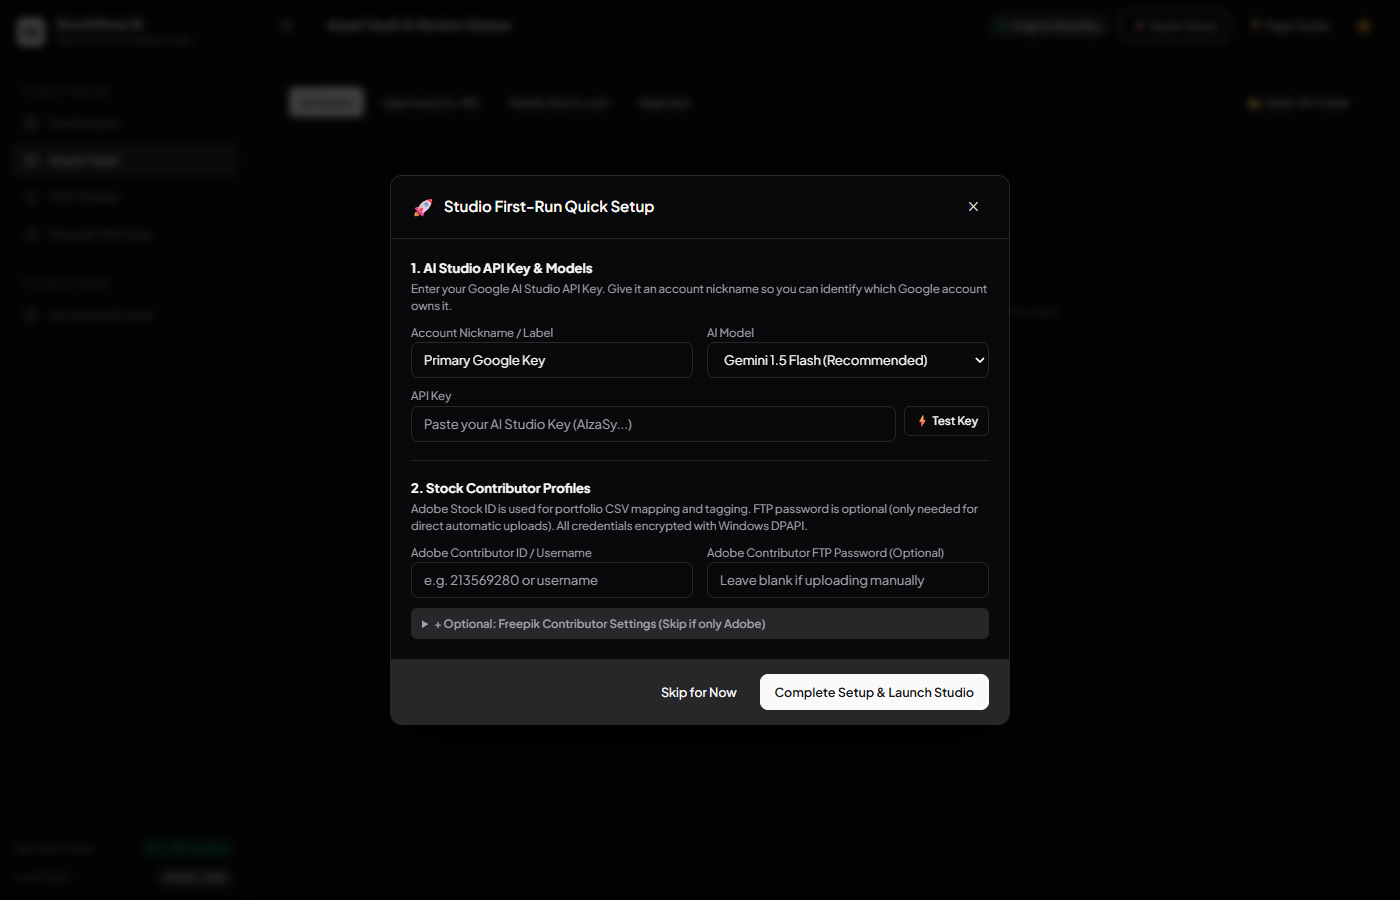
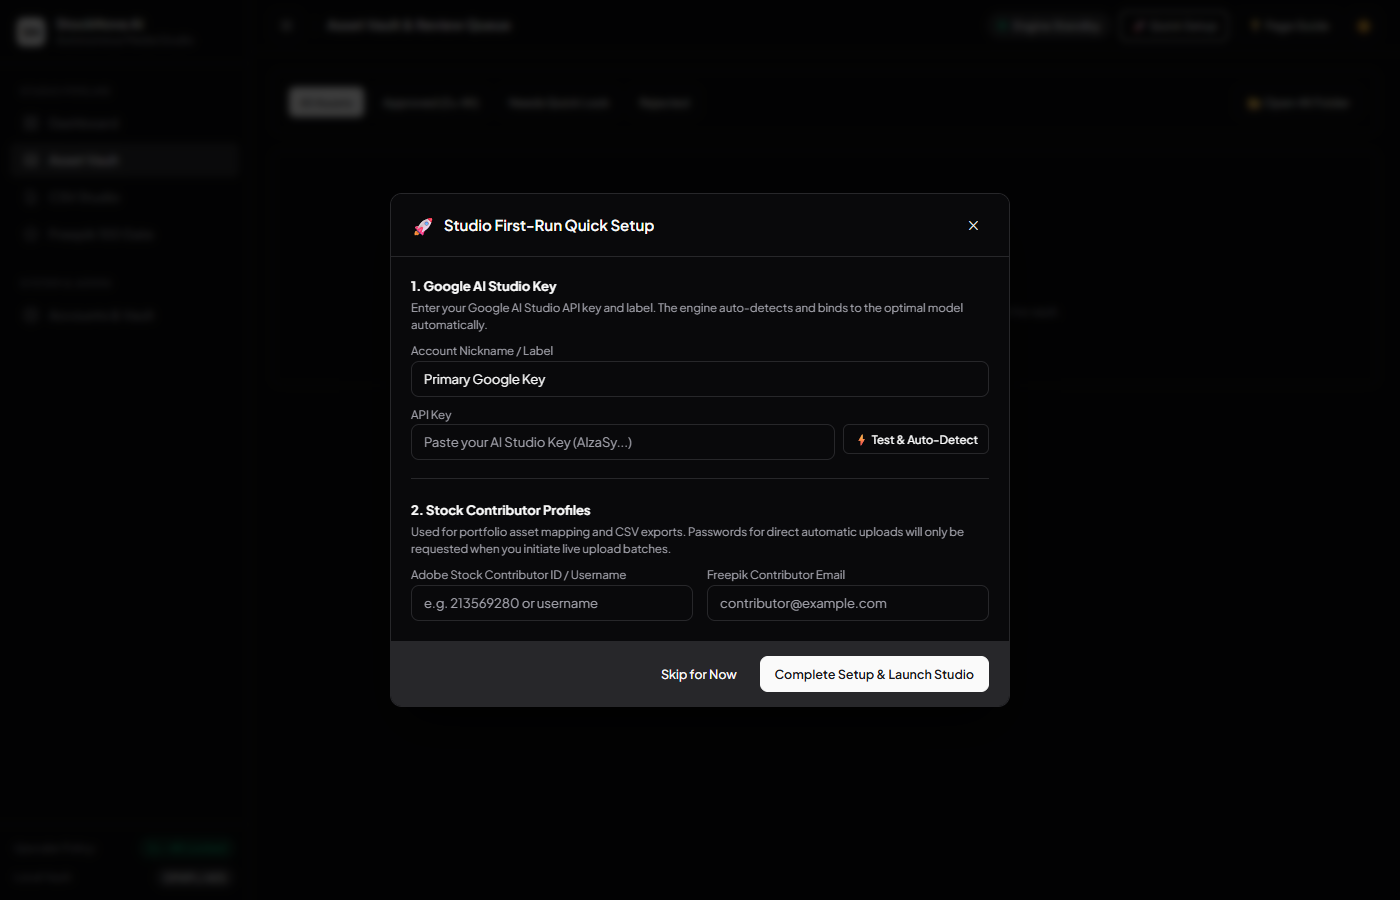
fix(ui): remove manual model dropdowns with auto-binding, restore simple 2-field stock profile, add upload stage notice

Changed region(s): [[0.2764, 0.5289, 0.7371, 0.8089], [0.2764, 0.2178, 0.7064, 0.4978], [0.6143, 0.4356, 0.7064, 0.4978]]

diff --git a/stockpilot/ui/app.html b/stockpilot/ui/app.html
@@ -1513,58 +1513,40 @@
         
         <!-- Step 1: AI Keys & Models -->
         <div style="border-bottom:1px solid var(--border); padding-bottom:14px;">
-          <strong style="font-size:13px; color:var(--text-main);">1. AI Studio API Key & Models</strong>
+          <strong style="font-size:13px; color:var(--text-main);">1. Google AI Studio Key</strong>
           <p style="font-size:11.5px; color:var(--text-muted); margin:2px 0 8px;">
-            Enter your Google AI Studio API Key. Give it an account nickname so you can identify which Google account owns it.
+            Enter your Google AI Studio API key and label. The engine auto-detects and binds to the optimal model automatically.
           </p>
-          <div class="grid-2" style="margin-bottom:8px;">
-            <div>
-              <label class="kpi-label">Account Nickname / Label</label>
-              <input type="text" id="qs-key-alias" class="sc-input" placeholder="e.g. Personal Account 01" value="Primary Google Key" />
-            </div>
-            <div>
-              <label class="kpi-label">AI Model</label>
-              <select id="qs-model-select" class="sc-select">
-                <option value="gemini-1.5-flash" selected>Gemini 1.5 Flash (Recommended)</option>
-                <option value="gemini-1.5-pro">Gemini 1.5 Pro</option>
-                <option value="gemini-2.0-flash">Gemini 2.0 Flash</option>
-                <option value="gemini-3.8-flash">Gemini 3.8 Flash</option>
-              </select>
-            </div>
+          <div style="margin-bottom:8px;">
+            <label class="kpi-label">Account Nickname / Label</label>
+            <input type="text" id="qs-key-alias" class="sc-input" placeholder="e.g. Personal Gmail 01" value="Primary Google Key" />
           </div>
           <div>
             <label class="kpi-label">API Key</label>
             <div style="display:flex; gap:8px;">
               <input type="password" id="qs-api-key" class="sc-input" placeholder="Paste your AI Studio Key (AIzaSy...)" />
-              <button class="sc-btn sc-btn-outline sc-btn-sm" onclick="testQuickSetupKey()" id="btn-qs-test" style="white-space:nowrap;">⚡ Test Key</button>
+              <button class="sc-btn sc-btn-outline sc-btn-sm" onclick="testQuickSetupKey()" id="btn-qs-test" style="white-space:nowrap;">⚡ Test & Auto-Detect</button>
             </div>
           </div>
           <span id="qs-key-feedback" style="font-size:11px; margin-top:4px; display:block;"></span>
         </div>
 
         <!-- Step 2: Stock Contributor Profiles -->
-        <div style="padding-top:4px;">
+        <div style="padding-top:8px;">
           <strong style="font-size:13px; color:var(--text-main);">2. Stock Contributor Profiles</strong>
           <p style="font-size:11.5px; color:var(--text-muted); margin:2px 0 8px;">
-            Adobe Stock ID is used for portfolio CSV mapping and tagging. FTP password is optional (only needed for direct automatic uploads). All credentials encrypted with Windows DPAPI.
+            Used for portfolio asset mapping and CSV exports. Passwords for direct automatic uploads will only be requested when you initiate live upload batches.
           </p>
           <div class="grid-2">
             <div>
-              <label class="kpi-label">Adobe Contributor ID / Username</label>
+              <label class="kpi-label">Adobe Stock Contributor ID / Username</label>
               <input type="text" id="qs-adobe-user" class="sc-input" placeholder="e.g. 213569280 or username" />
             </div>
             <div>
-              <label class="kpi-label">Adobe Contributor FTP Password <span style="font-weight:normal; color:var(--text-muted);">(Optional)</span></label>
-              <input type="password" id="qs-adobe-pass" class="sc-input" placeholder="Leave blank if uploading manually" />
-            </div>
-          </div>
-          <details style="margin-top:10px; font-size:11.5px; border:1px solid var(--border); border-radius:6px; padding:6px 10px; background:var(--bg-subtle);">
-            <summary style="cursor:pointer; font-weight:600; color:var(--text-muted);">+ Optional: Freepik Contributor Settings (Skip if only Adobe)</summary>
-            <div style="margin-top:8px;">
               <label class="kpi-label">Freepik Contributor Email</label>
               <input type="text" id="qs-freepik-user" class="sc-input" placeholder="contributor@example.com" />
             </div>
-          </details>
+          </div>
         </div>
 
       </div>
@@ -1586,31 +1568,20 @@
         <button class="sc-btn sc-btn-ghost sc-btn-sm" onclick="closeModal('modal-add-key')">✕</button>
       </div>
       <div class="sc-modal-body">
-        <div class="grid-2">
-          <div>
-            <label class="kpi-label">Key Nickname / Account Label</label>
-            <input type="text" id="input-key-alias" class="sc-input" placeholder="e.g. Personal_Gmail_01" />
-          </div>
-          <div>
-            <label class="kpi-label">Preferred Model</label>
-            <select id="input-key-model" class="sc-select">
-              <option value="gemini-1.5-flash" selected>Gemini 1.5 Flash</option>
-              <option value="gemini-1.5-pro">Gemini 1.5 Pro</option>
-              <option value="gemini-2.0-flash">Gemini 2.0 Flash</option>
-              <option value="gemini-3.8-flash">Gemini 3.8 Flash</option>
-            </select>
-          </div>
+        <div>
+          <label class="kpi-label">Key Nickname / Account Label</label>
+          <input type="text" id="input-key-alias" class="sc-input" placeholder="e.g. Personal_Gmail_01" />
         </div>
         <div>
           <label class="kpi-label">Gemini API Key</label>
           <div style="display:flex; gap:8px;">
             <input type="password" id="input-api-key" class="sc-input" placeholder="AIzaSy..." />
-            <button class="sc-btn sc-btn-outline sc-btn-sm" onclick="testModalAddKey()" id="btn-modal-test-key" style="white-space:nowrap;">⚡ Test</button>
+            <button class="sc-btn sc-btn-outline sc-btn-sm" onclick="testModalAddKey()" id="btn-modal-test-key" style="white-space:nowrap;">⚡ Test & Auto-Detect</button>
           </div>
           <span id="modal-key-feedback" style="font-size:11px; margin-top:4px; display:block;"></span>
         </div>
         <p style="font-size:11px; color:var(--text-muted); margin:0;">
-          Key will be encrypted using Windows DPAPI before being stored in SQLite.
+          The engine auto-detects the optimal model. Keys are encrypted locally using Windows DPAPI.
         </p>
       </div>
       <div class="sc-modal-footer">
@@ -2251,12 +2222,11 @@
 
     async function testQuickSetupKey() {
       const key = document.getElementById('qs-api-key').value.trim();
-      const model = document.getElementById('qs-model-select').value;
       const fb = document.getElementById('qs-key-feedback');
       if (!key) return alert('Please paste an API key first.');
-      fb.textContent = `Pinging Google AI Studio (${model})...`;
+      fb.textContent = 'Auto-detecting optimal Gemini production model...';
       fb.style.color = 'var(--text-muted)';
-      const res = await callBridge('test_api_key', key, model);
+      const res = await callBridge('test_api_key', key, '');
       if (res.status === 'success') {
         fb.textContent = `✓ ${res.message}`;
         fb.style.color = 'var(--emerald)';
@@ -2268,12 +2238,11 @@
 
     async function testModalAddKey() {
       const key = document.getElementById('input-api-key').value.trim();
-      const model = document.getElementById('input-key-model').value;
       const fb = document.getElementById('modal-key-feedback');
       if (!key) return alert('Please paste an API key first.');
-      fb.textContent = `Testing key against ${model}...`;
+      fb.textContent = 'Auto-detecting optimal Gemini production model...';
       fb.style.color = 'var(--text-muted)';
-      const res = await callBridge('test_api_key', key, model);
+      const res = await callBridge('test_api_key', key, '');
       if (res.status === 'success') {
         fb.textContent = `✓ ${res.message}`;
         fb.style.color = 'var(--emerald)';
@@ -2287,7 +2256,6 @@
       const alias = document.getElementById('qs-key-alias').value.trim() || 'Primary Google Key';
       const key = document.getElementById('qs-api-key').value.trim();
       const adobeUser = document.getElementById('qs-adobe-user').value.trim();
-      const adobePass = document.getElementById('qs-adobe-pass').value.trim();
       const freepikInput = document.getElementById('qs-freepik-user');
       const freepikUser = freepikInput ? freepikInput.value.trim() : '';
 
@@ -2295,7 +2263,7 @@
         await callBridge('save_api_key', alias, key);
       }
       if (adobeUser) {
-        await callBridge('save_ftp_credentials', adobeUser, adobePass, 'ftp.contributor.adobestock.com', 21);
+        await callBridge('save_ftp_credentials', adobeUser, '', 'ftp.contributor.adobestock.com', 21);
       }
       if (freepikUser) {
         await callBridge('save_freepik_credentials', freepikUser, '', 'standby');

diff --git a/stockpilot/ui/desktop_api.py b/stockpilot/ui/desktop_api.py
@@ -738,16 +738,19 @@ class DesktopBridgeAPI:
             pwd = (cred.get("secret") if cred else None) or Config.get_freepik_password()
 
         if not user or not pwd:
-            hint = "أدخل اسم المستخدم وكلمة المرور في الإعدادات أولاً."
+            hint = f"SFTP upload password is required only for direct automatic uploads. You can export batch CSVs manually anytime without a password, or configure credentials in Settings."
             self.db.record_platform_alert(
                 f"{platform.upper()} FTP",
                 str(host),
-                "MISSING_CREDENTIALS",
-                "بيانات الاتصال غير مكتملة",
+                "MISSING_UPLOAD_CREDENTIALS",
+                "SFTP Password not configured",
                 hint,
-                severity="warning",
+                severity="info",
             )
-            return json.dumps({"status": "error", "message": f"بيانات {platform.upper()} FTP غير مكتملة."})
+            return json.dumps({
+                "status": "notice",
+                "message": f"{platform.upper()} SFTP password is not configured. Direct auto-upload is paused. You can use manual 1-click CSV upload, or set password in Settings."
+            })
 
         try:
             ftp = ftplib.FTP()
